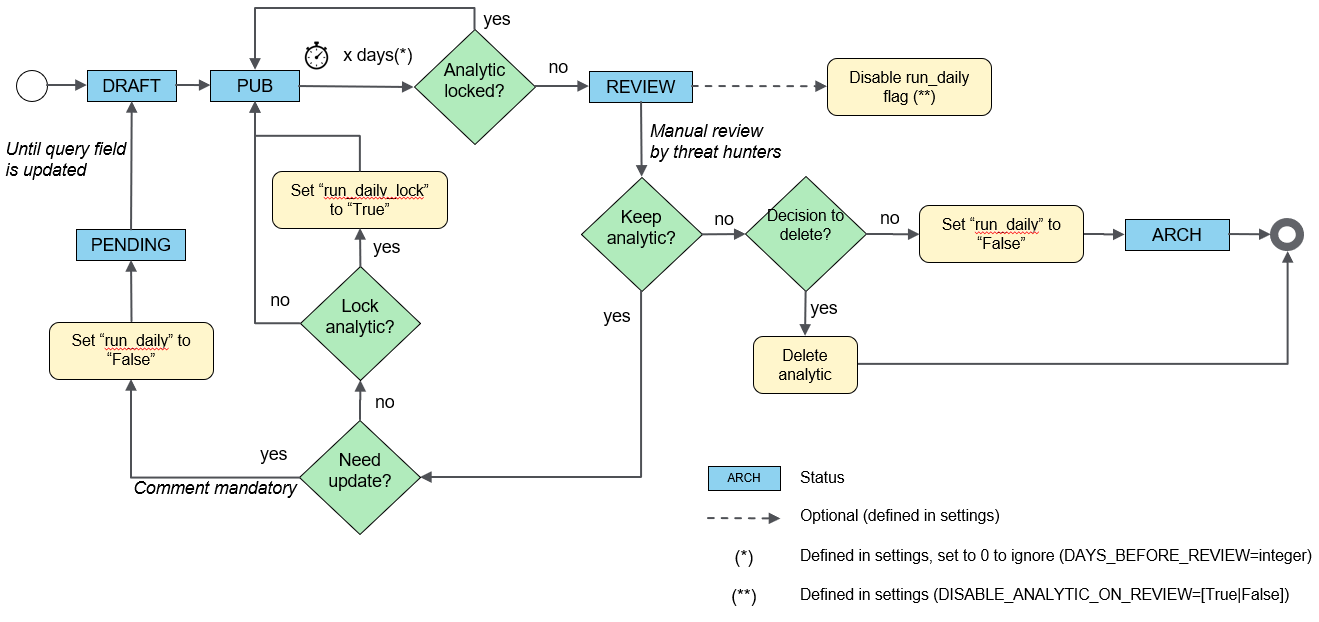
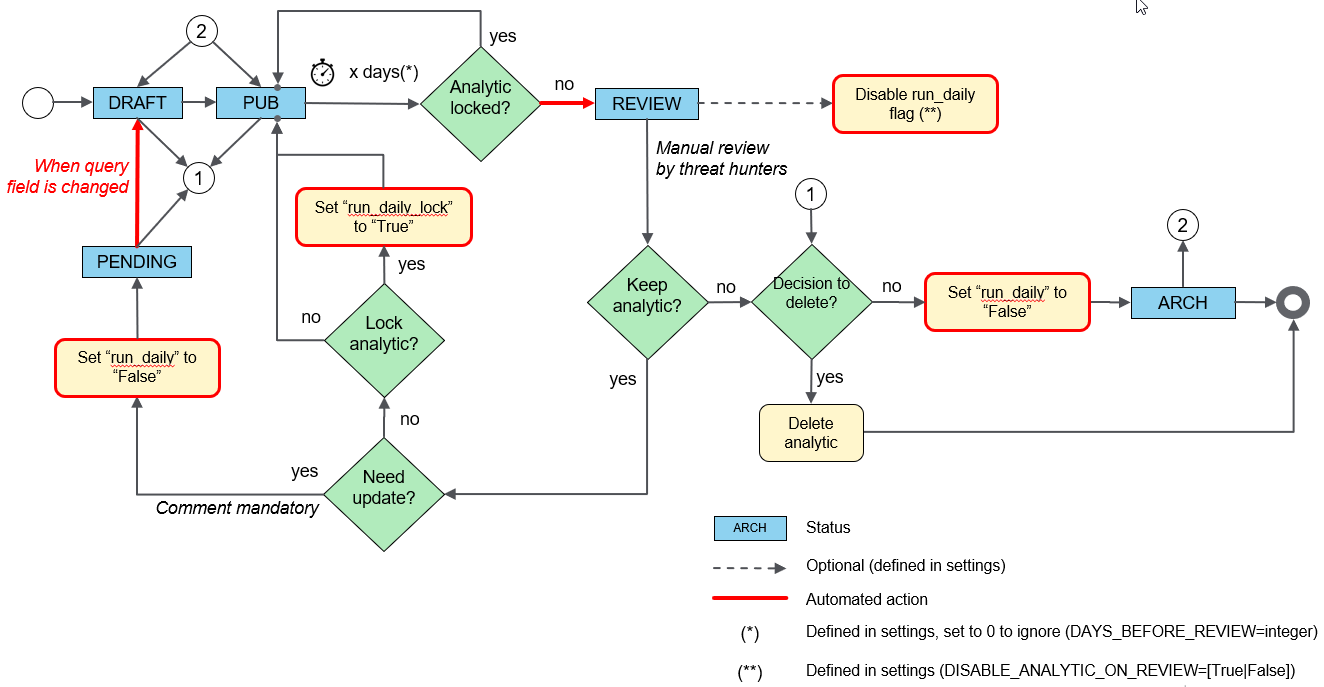
FR #165 - Add shortcut buttons to update status from the analytics view

diff --git a/qm/templates/list_analytics.html b/qm/templates/list_analytics.html
@@ -2,18 +2,20 @@
 {% load qm_extras %}
 
 {% block style %}
-<link rel="stylesheet" href="/static/bootstrap_table_expandable/bootstrap-table-expandable.css">
-<link rel="stylesheet" href="/static/jquery_table_sorter/theme.materialize.min.css" />
-<link rel="stylesheet" href="/static/jquery_table_sorter/theme.default.min.css" />
-<link rel="stylesheet" href="/static/css/list_analytics.css" />
-<link rel="stylesheet" href="/static/css/trend.css" />
-<script src="/static/jquery/jquery.min.js"></script>
-<script src="/static/jquery_table_sorter/jquery.tablesorter.min.js"></script>
-<script src="/static/bootstrap/js/bootstrap.min.js"></script>
-<script src="/static/bootstrap_table_expandable/bootstrap-table-expandable.js"></script>
-<script src="/static/jquery_sparkline/jquery.sparkline.min.js"></script>
-<script src="/static/canvasjs/jquery.canvasjs.min.js"></script>
-<script src="/static/js/htmx.min.js"></script>
+	<link rel="stylesheet" href="/static/bootstrap_table_expandable/bootstrap-table-expandable.css">
+	<link rel="stylesheet" href="/static/jquery_table_sorter/theme.materialize.min.css" />
+	<link rel="stylesheet" href="/static/jquery_table_sorter/theme.default.min.css" />
+	<link rel="stylesheet" href="/static/css/list_analytics.css" />
+	<link rel="stylesheet" href="/static/css/trend.css" />
+	<link rel="stylesheet" href="/static/css/repos.css" />
+
+	<script src="/static/jquery/jquery.min.js"></script>
+	<script src="/static/jquery_table_sorter/jquery.tablesorter.min.js"></script>
+	<script src="/static/bootstrap/js/bootstrap.bundle.min.js"></script>
+	<script src="/static/bootstrap_table_expandable/bootstrap-table-expandable.js"></script>
+	<script src="/static/jquery_sparkline/jquery.sparkline.min.js"></script>
+	<script src="/static/canvasjs/jquery.canvasjs.min.js"></script>
+	<script src="/static/js/htmx.min.js"></script>
 {% endblock %}
 
 {% block body %}
@@ -506,11 +508,11 @@
         <td><button id="b_{{ analytic.id }}" class="btn btn-default toggle-row"><i class="fa fa-chevron-right"></i></button></td>
         <td>{{ analytic.name }}</td>
 		<td>{{ analytic.connector.name }}</td>
-        <td class="acenter"><div class="{{ analytic.status|lower }}">{{ analytic.status }}</div></td>
+        <td class="acenter"><div id="analytic_status_{{ analytic.id }}" class="dropdown" hx-get="/qm/statusbutton/{{ analytic.id }}/" hx-trigger="load, every 10s"></div></td>
         <td class="acenter">{{ analytic.category.short_name }}</td>
         <td class="acenter"><div class="confidence_{{ analytic.confidence }}">{{ analytic.confidence|confidencelabel }}</div></td>
         <td class="acenter"><div class="confidence_{{ analytic.relevance }}">{{ analytic.relevance|confidencelabel }}</div></td>
-		<td class="acenter">{% if analytic.run_daily %}{% if analytic.run_daily_lock %}<img src="/static/images/lock.png" width="20" />{% else %}<img src="/static/admin/img/icon-yes.svg" />{% endif %}{% else %}<img src="/static/admin/img/icon-no.svg" />{% endif %}</td>
+        <td class="acenter"><div id="analytic_rundaily_{{ analytic.id }}" hx-get="/qm/rundailycheckbox/{{ analytic.id }}/" hx-trigger="load, every 10s"></div></td>
 		<td class="acenter">{% if analytic.create_rule %}<img src="/static/admin/img/icon-yes.svg" />{% else %}<img src="/static/admin/img/icon-no.svg" />{% endif %}</td>
 		<td class="acenter">{% if analytic.dynamic_query %}<img src="/static/admin/img/icon-yes.svg" />{% else %}<img src="/static/admin/img/icon-no.svg" />{% endif %}</td>
 		<td class="acenter">{{ analytic.maxhosts_count }}</td>

diff --git a/static/css/list_analytics.css b/static/css/list_analytics.css
@@ -363,43 +363,55 @@ table.review td {
 
 /* Div styles for analytic status */
 
-div.draft {
-	width: 70px;
+div.draft, button.draft {
+	font-size: 13px;
+	width: 80px;
 	background: #A9C9FF;
 	padding: 1px;
 	border-radius: 5px;
 	text-align: center;
+	border: none;
+	color: #000;
 }
-div.pub {
-	width: 70px;
+div.pub, button.pub {
+	font-size: 13px;
+	width: 80px;
 	background: #28A745;
 	padding: 1px;
 	color: #fff;
 	border-radius: 5px;
 	text-align: center;
+	border: none;
 }
-div.review {
-	width: 70px;
+div.review, button.review {
+	font-size: 13px;
+	width: 80px;
 	background: #FFC107;
 	padding: 1px;
 	border-radius: 5px;
 	text-align: center;
+	border: none;
+	color: #000;
 }
-div.pending {
-	width: 70px;
+div.pending, button.pending {
+	font-size: 13px;
+	width: 80px;
 	background: #FF6F00;
 	padding: 1px;
 	border-radius: 5px;
 	color: #fff;
 	text-align: center;
+	border: none;
 }
-div.arch {
-	width: 70px;
+div.arch, button.arch {
+	font-size: 13px;
+	width: 80px;
 	background: #6C757D;
 	padding: 1px;
 	color: #fff;
 	border-radius: 5px;
 	text-align: center;
+	border: none;
 }
 
 
@@ -449,4 +461,9 @@ table.w750 {
 
 div.pad5 {
 	padding-left:5px;
+}
+
+.pad20 {
+	color: red;
+	padding-left:20px;
 }

diff --git a/qm/templates/analytic_detail.html b/qm/templates/analytic_detail.html
@@ -18,9 +18,10 @@
 	<div id="details_{{ analytic.id }}">
 
 		<div class="m10">
-			<a href="/events/{{ analytic.id }}/" target="_blank" class="button">Run query</a>
+			<a href="/qm/events/{{ analytic.id }}/" target="_blank" class="button">Run query</a>
 			<a href="/admin/qm/analytic/{{ analytic.id }}/change/" target="_blank" class="button">Edit in admin</a>
 			<a href="/admin/qm/analytic/{{ analytic.id }}/history/" target="_blank" class="button">History</a>
+			<span class="pad20"><a href="/qm/deleteanalytic/{{ analytic.id }}/" class="buttonred">Delete</a></span>
 		</div>
 
 		{% if endpoints %}

diff --git a/qm/templates/status_button.html b/qm/templates/status_button.html
@@ -1,0 +1,11 @@
+<button class="{{ analytic.status|lower }} btn btn-secondary dropdown-toggle" type="button" data-bs-toggle="dropdown" aria-expanded="false">
+    {{ analytic.status }}
+</button>
+<ul class="dropdown-menu">
+    {% for k,v in statuses.items %}
+        <li><a class="dropdown-item"
+            hx-get="/qm/changestatus/{{ analytic.id }}/{{ k|upper }}/"
+            hx-target="#analytic_status_{{ analytic.id }}">{{ v }}</a>
+        </li>
+    {% endfor %}
+</ul>

diff --git a/qm/templates/analytic_review.html b/qm/templates/analytic_review.html
@@ -2,6 +2,7 @@
 <html>
     <head>
         <link rel="stylesheet" type="text/css" href="/static/css/review.css">
+        <link rel="stylesheet" type="text/css" href="/static/css/repos.css">
         <script src="/static/js/htmx.min.js"></script>
     </head>
     <body>

diff --git a/static/css/repos.css b/static/css/repos.css
@@ -1,5 +1,5 @@
 label {
     font-size: 14px;
-    width: 70px;
+    width: 80px;
     display: inline-block;
 }

diff --git a/qm/views.py b/qm/views.py
@@ -4,10 +4,11 @@ from django.shortcuts import get_object_or_404, render
 from django.contrib.auth.models import User
 from django.contrib.auth.decorators import login_required, permission_required
 from django.contrib import messages
-from django.http import HttpResponse, HttpResponseRedirect
+from django.http import HttpResponse, HttpResponseRedirect, HttpResponseForbidden
 from django.middleware.csrf import get_token
 from django.db.models import Q, Sum, Count, F
 from django.core.paginator import Paginator
+from django.urls import reverse
 from datetime import datetime, timedelta, timezone
 import logging
 import numpy as np
@@ -20,7 +21,7 @@ from .tasks import regenerate_stats, regenerate_campaign
 import ipaddress
 from connectors.utils import is_connector_enabled, is_connector_for_analytics, get_connector_conf
 from celery import current_app
-from qm.utils import get_campaign_date
+from qm.utils import get_campaign_date, get_available_statuses
 from urllib.parse import urlencode, quote
 from .forms import ReviewForm, EditAnalyticDescriptionForm, EditAnalyticNotesForm, EditAnalyticQueryForm
 
@@ -1064,3 +1065,56 @@ def edit_query_submit(request, analytic_id):
         else:
             return render(request, 'edit_query_form.html', {'analytic_id': analytic.id})
     return HttpResponseRedirect(f"/qm/edit_query_initial/{analytic.id}")
+
+@login_required
+def status_button(request, analytic_id):
+    analytic = get_object_or_404(Analytic, pk=analytic_id)
+    
+    # List of statuses to be shown, depending on current status and defined workflow
+    statuses = get_available_statuses(analytic)
+
+    context = {
+        "analytic": analytic,
+        "statuses": statuses,
+    }
+    return render(request, 'status_button.html', context)
+
+@login_required
+def change_status(request, analytic_id, updated_status):
+    analytic = get_object_or_404(Analytic, pk=analytic_id)
+    
+    # sanitize user input to only allow valid statuses
+    if updated_status not in get_available_statuses(analytic):
+        return HttpResponseForbidden("Invalid status")
+
+    if updated_status == 'PUB_RUNDAILY':
+        analytic.run_daily = True
+        updated_status = 'PUB'
+    if updated_status == 'PUB_NO_RUNDAILY':
+        analytic.run_daily = False
+        updated_status = 'PUB'
+
+    analytic.status = updated_status
+    analytic.save()
+    
+    context = {
+        "analytic": analytic,
+    }
+    return render(request, 'status_button.html', context)
+
+@login_required
+def delete_analytic(request, analytic_id):
+    analytic = get_object_or_404(Analytic, pk=analytic_id)
+    analytic.delete()
+    return HttpResponseRedirect(reverse('list_analytics'))
+
+@login_required
+def rundailycheckbox(request, analytic_id):
+    analytic = get_object_or_404(Analytic, pk=analytic_id)
+    if analytic.run_daily:
+        if analytic.run_daily_lock:
+            return HttpResponse('<img src="/static/images/lock.png" width="20" />')
+        else:
+            return HttpResponse('<img src="/static/admin/img/icon-yes.svg" />')
+    else:
+        return HttpResponse('<img src="/static/admin/img/icon-no.svg" />')

diff --git a/qm/signals.py b/qm/signals.py
@@ -78,8 +78,11 @@ def pre_save_handler(sender, instance, **kwargs):
             instance.query_error_message = ''
             instance.query_error_date = None
             instance.last_time_seen = None
-            # we save a flag for the post_save handler to know if the query was changed
+            # we save a flag for the post_save handler to know if the query was changed (used for stats regeneration in post_save handler)
             instance._query_changed = True
+            # Workflow automation: if status is PENDING and query is changed, analytic status automatically set to DRAFT
+            if instance.status == 'PENDING':
+                instance.status = 'DRAFT'
 
         # Only apply if "need_to_sync_rule" function returns True (defined in the connector settings)
         if all_connectors.get(instance.connector.name).need_to_sync_rule():
@@ -115,10 +118,13 @@ def pre_save_handler(sender, instance, **kwargs):
         else:
             instance.next_review_date = None
 
-    # When analytics are archived, automatically remove the run_daily flag
+    # When analytic is archived or pending, automatically remove the run_daily flag
     if instance.status == 'ARCH' or instance.status == 'PENDING':
         instance.run_daily = False
 
+    # If run_daily_lock is set, run_daily should automatically be set
+    if instance.run_daily_lock and not instance.run_daily:
+        instance.run_daily = True
 
 # This handler is triggered after an "Analytic" object is saved
 @receiver(post_save, sender=Analytic)

diff --git a/qm/utils.py b/qm/utils.py
@@ -299,3 +299,39 @@ def run_campaign(campaigndate=None, debug=False, celery=False):
 
     # Delete Celery task in DB if celery is used
     task_status.delete()
+
+
+def get_available_statuses(analytic):
+    statuses = {}
+    if analytic.status == "DRAFT":
+        statuses = {
+            "PUB_RUNDAILY": "Publish (run daily set)",
+            "PUB_NO_RUNDAILY": "Publish (run daily unset)",
+            "ARCH": "Archive",
+            }
+    elif analytic.status == "PUB":
+        # if analytic is locked, it's protected against review
+        if analytic.run_daily_lock:
+            statuses = {
+                "ARCH": "Archive",
+                }
+        else:
+            statuses = {
+                "REVIEW": "To review",
+                "ARCH": "Archive",
+                }
+    elif analytic.status == "REVIEW":
+        statuses = {
+            }
+    elif analytic.status == "PENDING":
+        statuses = {
+            "DRAFT": "Draft",
+            }
+    elif analytic.status == "ARCH":
+        statuses = {
+            "DRAFT": "Draft",
+            "PUB_RUNDAILY": "Publish (run daily set)",
+            "PUB_NO_RUNDAILY": "Publish (run daily unset)",
+            "REVIEW": "To review",
+            }
+    return statuses

diff --git a/qm/urls.py b/qm/urls.py
@@ -57,5 +57,9 @@ urlpatterns = [
     path('qm/edit_query_initial/<int:analytic_id>/', views.edit_query_initial, name='edit_query_initial'),
     path('qm/edit_query_form/<int:analytic_id>/', views.edit_query_form, name='edit_query_form'),
     path('qm/edit_query_submit/<int:analytic_id>/', views.edit_query_submit, name='edit_query_submit'),
-
+    
+    path('qm/statusbutton/<int:analytic_id>/', views.status_button, name='status_button'),
+    path('qm/changestatus/<int:analytic_id>/<str:updated_status>/', views.change_status, name='change_status'),
+    path('qm/deleteanalytic/<int:analytic_id>/', views.delete_analytic, name='delete_analytic'),
+    path('qm/rundailycheckbox/<int:analytic_id>/', views.rundailycheckbox, name='rundailycheckbox'),
 ]

diff --git a/qm/forms.py b/qm/forms.py
@@ -6,7 +6,7 @@ class ReviewForm(forms.ModelForm):
         model = Review
         exclude = ['analytic', 'reviewer']
         widgets = {
-            'comments': forms.Textarea(attrs={'rows': 2}),
+            'comments': forms.Textarea(attrs={'rows': 5, 'cols': 100}),
         }
 
     def clean(self):

diff --git a/docs/modules/analytics.rst b/docs/modules/analytics.rst
@@ -22,10 +22,10 @@ List of threat hunting analytics
 This shows the list of threat hunting analytics available in the DeepHunter database. For each, you will have information shown in columns (clicking on the column header sorts the list):
 
 - **Name**: name of the analytic
-- **Pub status**: Publication status (Draft or production)
+- **Status**: Status of the analytic in the `worklfow <../intro.html#analytic-workflow>`_. Clicking on a status will show a dropdown list with possible statuses that you can choose to update the analytic. This is automatically refreshed every 10 seconds.
 - **Confidence**: the confidence indicator (CRIT, HIGH, MED, LOW) tells how much you can trust the analytic. If it tends to output many "false positives", the confidence will likely be "LOW". On the other hand, a confidence of "CRIT" means that all matching events are real alerts.
 - **Relevance**: The relevance (CRIT, HIGH, MED, LOW) tells how bad it is for your organization if events match the threat hunting analytic, independantly from the confidence. Understand it as the "impact". It may happen that you have an analytic that matches many events, only some of which are interesting/relevant. However, you may still want to keep this rule as matches may indicate a sign of compromise. In this case, the rule may have a low confidence, with a critical relevance.
-- **Run daily**: Flag indicating if the analytic is run daily (via the campaigns cron job). Remember that DeepHunter is a repository storing all threat hunting analytics, but not all of them may need to be automated.
+- **Run daily**: Flag indicating if the analytic is run daily (via the campaigns cron job). Remember that DeepHunter is a repository storing all threat hunting analytics, but not all of them may need to be automated. This flag is automatically refreshed every 10 seconds.
 - **STAR rule**: Flag indicating if the analytic has a matching STAR rule in SentinelOne. When you modify an analytic in DeepHunter, it will update the STAR rule in S1. Deleting a threat hunting analytic associated to a STAR rule will automatically delete the STAR rule in S1. Notice that the STAR rules will have the same name as the threat hunting analytic in DeepHunter. For that reason, a best practice is to name all of your analytics using characters in ``a-z``, ``0-9`` and replace spaces with ``_``.
 - **Maxhosts count**: Counts how many times ``CAMPAIGN_MAX_HOSTS_THRESHOLD`` is reached. This counter is used (check ``ON_MAXHOSTS_REACHED``) to automatically remove threat hunting analytics from future campaigns and/or delete associated statistics.
 - **Dyn query**: Flag that indicates if the analytic is `static or dynamic <intro.html#static-vs-dynamic-analytics>`_.
